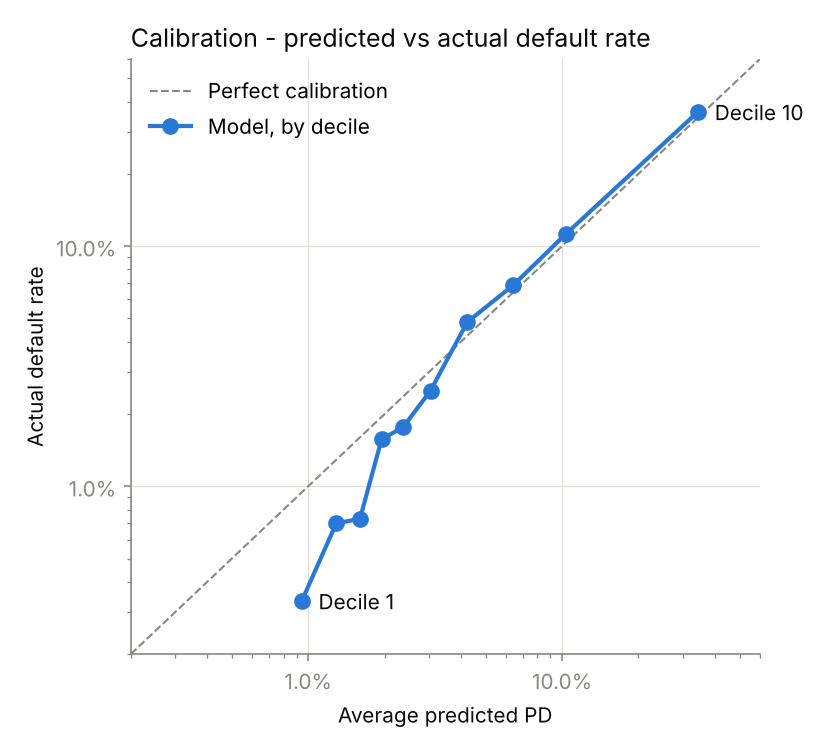
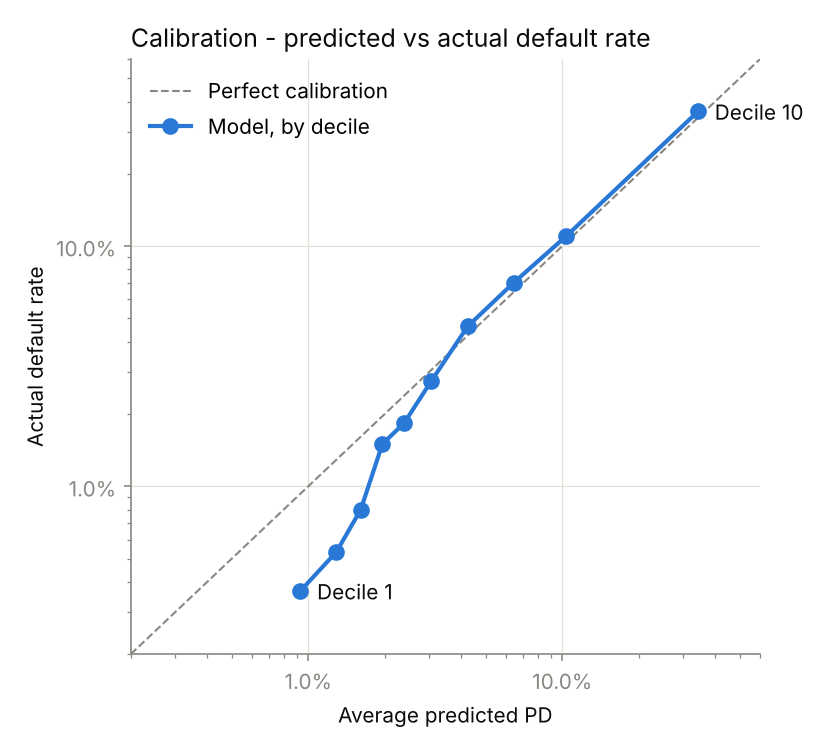
Remove debt ratio, add Reg B age note, fix risk factor wording and flag bug

diff --git a/scorecard.py b/scorecard.py
@@ -50,16 +50,16 @@ PAST_DUE_COLS = [
 FLAG_COLS = ["PastDueCodeFlag", "IncomeMissingFlag"]
 
 # Debt ratio raises risk on its own, but its weight turns slightly negative once the
-# other debt features are in the model. A reason like "debt ratio too low" can't be
-# given to a declined applicant, so it is never used as a reason code.
-NO_REASON_CODE = {"DebtRatio"}
+# other debt features are in the model, and it adds no accuracy (AUC 0.860 with it,
+# 0.861 without). Every feature in the model must be one we'd show an applicant as a
+# reason, so it is left out rather than kept and hidden.
+DROPPED = ["DebtRatio"]
 
 # Plain-English names, used in reason codes
 LABELS = {
     "RevolvingUtilizationOfUnsecuredLines": "Revolving credit utilization",
     "age": "Age",
     "NumberOfTime30-59DaysPastDueNotWorse": "Payments 30-59 days late",
-    "DebtRatio": "Debt ratio",
     "MonthlyIncome": "Monthly income",
     "NumberOfOpenCreditLinesAndLoans": "Open credit lines and loans",
     "NumberOfTimes90DaysLate": "Payments 90+ days late",
@@ -87,7 +87,7 @@ def clean(data):
     data["PastDueCodeFlag"] = (data[PAST_DUE_COLS] >= 96).any(axis=1).astype(int)
     for col in PAST_DUE_COLS:
         data.loc[data[col] >= 96, col] = np.nan
-    # Missing income is informative too, and it is what distorts DebtRatio
+    # Missing income is flagged so the model can tell it apart from a typical income
     data["IncomeMissingFlag"] = data["MonthlyIncome"].isna().astype(int)
     return data
 
@@ -114,18 +114,17 @@ def reason_codes(pipeline, X_row, n=3):
         if contrib[i] <= 0 or len(reasons) == n:
             break
         feat = X_row.columns[i]
-        if feat in NO_REASON_CODE:
-            continue
         if feat in FLAG_COLS:
-            reasons.append(LABELS[feat])
+            if X_row.iloc[0, i] == 1:            # a flag is only a factor when it is set
+                reasons.append(LABELS[feat])
         else:
             reasons.append(f"{LABELS[feat]}: {'higher' if z[i] > 0 else 'lower'} than average")
     return reasons
 
 
 def score_applicant(applicant, bundle=None):
-    """Score one applicant (a dict of the 10 raw dataset fields; leave unknowns as None).
-    Returns score, PD and up to three reason codes."""
+    """Score one applicant (a dict of the raw dataset fields; leave unknowns as None).
+    Returns score, PD and up to three risk factors - the reason codes if declined."""
     if bundle is None:
         with open(MODEL_FILE, "rb") as f:
             bundle = pickle.load(f)
@@ -133,7 +132,7 @@ def score_applicant(applicant, bundle=None):
     X_row = apply_caps(clean(raw), bundle["caps"])[bundle["features"]]
     p = float(bundle["pipeline"].predict_proba(X_row)[0, 1])
     return {"score": int(pd_to_score(p)), "pd": p,
-            "reasons": reason_codes(bundle["pipeline"], X_row)}
+            "factors": reason_codes(bundle["pipeline"], X_row)}
 
 
 # ---------------------------------------------------------------------------
@@ -154,7 +153,7 @@ def main():
 
     # Step 1 - Data ingestion and cleaning ----------------------------------
     df = clean(pd.read_csv(DATA_FILE))
-    X = df.drop(columns=[TARGET])
+    X = df.drop(columns=[TARGET] + DROPPED)
     y = df[TARGET]
 
     line()
@@ -325,26 +324,27 @@ def main():
     # Scoring new applicants with reason codes ------------------------------
     examples = {
         "Maria": {"RevolvingUtilizationOfUnsecuredLines": 0.95, "age": 28,
-                  "NumberOfTime30-59DaysPastDueNotWorse": 3, "DebtRatio": 0.40,
+                  "NumberOfTime30-59DaysPastDueNotWorse": 3,
                   "MonthlyIncome": 6000, "NumberOfOpenCreditLinesAndLoans": 8,
                   "NumberOfTimes90DaysLate": 0, "NumberRealEstateLoansOrLines": 0,
                   "NumberOfTime60-89DaysPastDueNotWorse": 0, "NumberOfDependents": 0},
         "James": {"RevolvingUtilizationOfUnsecuredLines": 0.10, "age": 52,
-                  "NumberOfTime30-59DaysPastDueNotWorse": 0, "DebtRatio": 0.30,
+                  "NumberOfTime30-59DaysPastDueNotWorse": 0,
                   "MonthlyIncome": 4500, "NumberOfOpenCreditLinesAndLoans": 6,
                   "NumberOfTimes90DaysLate": 0, "NumberRealEstateLoansOrLines": 1,
                   "NumberOfTime60-89DaysPastDueNotWorse": 0, "NumberOfDependents": 2},
     }
     print()
     line()
-    print("SCORING NEW APPLICANTS (score_applicant) - with adverse action reason codes")
+    print("SCORING NEW APPLICANTS (score_applicant)")
+    print("Risk factors = what pushes risk above average; if declined, these are the reason codes")
     line()
     for name, applicant in examples.items():
         result = score_applicant(applicant, bundle)
         print(f"{name}: score {result['score']} | PD {result['pd']:.1%}")
-        for k, reason in enumerate(result["reasons"], 1):
-            print(f"   Reason {k}: {reason}")
-        if not result["reasons"]:
+        for k, factor in enumerate(result["factors"], 1):
+            print(f"   Risk factor {k}: {factor}")
+        if not result["factors"]:
             print("   No factors raise risk above the average borrower")
 
     # Charts ----------------------------------------------------------------

diff --git a/README.md b/README.md
@@ -6,16 +6,18 @@ A traditional bank-style credit scorecard that predicts the probability of serio
 
 Banks must be able to explain their credit decisions — to model validators under model-risk guidance (such as the Fed's SR 11-7), and to customers through adverse action notices (ECOA / Regulation B). A logistic regression gives one clear, signed weight per feature, so you can say exactly what drives a borrower's risk up or down. That makes it the standard baseline for retail credit scoring.
 
+The design rule throughout: **every feature in the model must be one a lender would be willing to show an applicant as a reason.**
+
 ## Results (20% stratified hold-out, 30,000 borrowers)
 
 | Metric | Value | What it means |
 |---|---|---|
-| AUC | **0.860** | 86% chance a random defaulter is scored riskier than a random non-defaulter |
+| AUC | **0.861** | 86% chance a random defaulter is scored riskier than a random non-defaulter |
 | Gini | **0.721** | 2 × AUC − 1, the standard industry ranking measure |
-| KS | **0.560** | Maximum separation between good and bad borrowers |
+| KS | **0.557** | Maximum separation between good and bad borrowers |
 
 <p align="center">
-  <img src="outputs/roc_curve.png" width="48%" alt="ROC curve with AUC 0.860 and KS 0.560">
+  <img src="outputs/roc_curve.png" width="48%" alt="ROC curve with AUC 0.861 and KS 0.557">
   <img src="outputs/calibration.png" width="48%" alt="Predicted vs actual default rate by decile">
 </p>
 
@@ -25,18 +27,18 @@ Ranking borrowers well is not enough for loss estimates; the predicted probabili
 
 | Decile | Predicted PD | Actual default rate | Predicted ÷ actual |
 |---|---|---|---|
-| 1 (safest) | 0.94% | 0.33% | 2.83 |
-| 2 | 1.29% | 0.70% | 1.84 |
-| 3 | 1.60% | 0.73% | 2.18 |
-| 4 | 1.94% | 1.57% | 1.24 |
-| 5 | 2.37% | 1.77% | 1.34 |
-| 6 | 3.03% | 2.50% | 1.21 |
-| 7 | 4.24% | 4.83% | 0.88 |
-| 8 | 6.41% | 6.87% | 0.93 |
-| 9 | 10.38% | 11.27% | 0.92 |
-| 10 (riskiest) | 34.33% | 36.27% | 0.95 |
+| 1 (safest) | 0.93% | 0.37% | 2.54 |
+| 2 | 1.29% | 0.53% | 2.42 |
+| 3 | 1.61% | 0.80% | 2.01 |
+| 4 | 1.96% | 1.50% | 1.31 |
+| 5 | 2.38% | 1.83% | 1.30 |
+| 6 | 3.04% | 2.73% | 1.11 |
+| 7 | 4.24% | 4.63% | 0.92 |
+| 8 | 6.43% | 7.03% | 0.91 |
+| 9 | 10.36% | 11.00% | 0.94 |
+| 10 (riskiest) | 34.26% | 36.40% | 0.94 |
 
-**What this shows:** the model is well calibrated for the riskier half of the portfolio (within about 5–12%, slightly understating risk), but it **overstates risk for the safest borrowers by roughly two to three times**. A straight-line model cannot bend enough to capture how very-low-risk borrowers behave. This is conservative (it errs toward caution, not optimism), and it matters little in dollar terms because the safest deciles carry little expected loss. The fixes are WoE binning or a recalibration step (see *Limitations*).
+**What this shows:** across the riskiest four deciles, predictions are within 6–9% of actual default rates (slightly understating risk). Deciles 4–6 overstate risk by 1.1–1.3×, and the **safest three deciles overstate it by 2–2.5×**. A straight-line model cannot bend enough to capture how very-low-risk borrowers behave. The error is conservative (it errs toward caution, not optimism), and it matters little in dollar terms because the safest deciles carry little expected loss. The fixes are WoE binning or a recalibration step (see *Limitations*).
 
 ### Risk Weight Matrix
 
@@ -44,22 +46,19 @@ Standardized coefficients, so features are directly comparable. *Odds ×* is how
 
 | Rank | Feature | Coef | Odds × | Effect |
 |---|---|---|---|---|
-| 1 | Revolving utilization of unsecured lines | +0.689 | 1.99 | Raises risk |
-| 2 | Times 90+ days late | +0.333 | 1.39 | Raises risk |
-| 3 | Times 30–59 days past due | +0.308 | 1.36 | Raises risk |
-| 4 | Age | −0.248 | 0.78 | Lowers risk |
-| 5 | Times 60–89 days past due | +0.202 | 1.22 | Raises risk |
-| 6 | Open credit lines and loans | +0.186 | 1.20 | Raises risk |
-| 7 | Monthly income | −0.154 | 0.86 | Lowers risk |
-| 8 | Debt ratio | −0.135 | 0.87 | Lowers risk* |
-| 9 | Real estate loans or lines | +0.129 | 1.14 | Raises risk |
-| 10 | Past-due history recorded as special code (flag) | +0.100 | 1.10 | Raises risk |
-| 11 | Income not reported (flag) | +0.087 | 1.09 | Raises risk |
-| 12 | Number of dependents | +0.047 | 1.05 | Raises risk |
+| 1 | Revolving utilization of unsecured lines | +0.686 | 1.99 | Raises risk |
+| 2 | Times 90+ days late | +0.333 | 1.40 | Raises risk |
+| 3 | Times 30–59 days past due | +0.307 | 1.36 | Raises risk |
+| 4 | Age | −0.247 | 0.78 | Lowers risk |
+| 5 | Times 60–89 days past due | +0.203 | 1.22 | Raises risk |
+| 6 | Open credit lines and loans | +0.170 | 1.19 | Raises risk |
+| 7 | Monthly income | −0.132 | 0.88 | Lowers risk |
+| 8 | Real estate loans or lines | +0.104 | 1.11 | Raises risk |
+| 9 | Past-due history recorded as special code (flag) | +0.103 | 1.11 | Raises risk |
+| 10 | Number of dependents | +0.042 | 1.04 | Raises risk |
+| 11 | Income not reported (flag) | −0.012 | 0.99 | Negligible |
 
-**Key takeaway:** credit card utilization and past delinquency history dominate default risk. Utilization alone roughly doubles the odds of default per standard deviation, while monthly income has a much smaller effect.
-
-\*See *Limitations* for why debt ratio shows a counter-intuitive sign.
+**Key takeaway:** credit card utilization and past delinquency history dominate default risk. Utilization alone roughly doubles the odds of default per standard deviation, while monthly income has a much smaller effect. Every weight points in the direction a credit analyst would expect. The income-not-reported flag is close to zero, which fits its 5.6% default rate being near the 6.7% average.
 
 ### Credit score bands
 
@@ -67,11 +66,11 @@ Scores use the industry "points to double the odds" method: 650 points = 20:1 go
 
 | Score band | Borrowers | Share | Predicted PD | Actual default rate |
 |---|---|---|---|---|
-| Poor (300–579) | 3,721 | 12.4% | 30.11% | 32.20% |
-| Fair (580–669) | 7,876 | 26.3% | 6.68% | 7.19% |
-| Good (670–739) | 12,532 | 41.8% | 2.27% | 1.70% |
-| Very Good (740–799) | 5,805 | 19.4% | 1.12% | 0.48% |
-| Exceptional (800–850) | 66 | 0.2% | 0.55% | 0.00% |
+| Poor (300–579) | 3,679 | 12.3% | 30.25% | 32.16% |
+| Fair (580–669) | 7,936 | 26.5% | 6.71% | 7.32% |
+| Good (670–739) | 12,575 | 41.9% | 2.28% | 1.71% |
+| Very Good (740–799) | 5,767 | 19.2% | 1.10% | 0.45% |
+| Exceptional (800–850) | 43 | 0.1% | 0.56% | 0.00% |
 
 Default rates fall steadily as scores rise, from about 32% in the lowest band to under 1% in the top bands. The gap between predicted and actual in the top bands is the same overstatement seen in the calibration table.
 
@@ -85,51 +84,52 @@ Banks measure credit losses with **Expected Loss = PD × LGD × EAD**: the proba
 
 | Score band | Exposure ($) | Expected loss ($) | Avg EL per borrower ($) | Loss rate |
 |---|---|---|---|---|
-| Poor (300–579) | 34,506,295 | 8,420,199 | 2,263 | 24.40% |
-| Fair (580–669) | 62,455,649 | 3,457,903 | 439 | 5.54% |
-| Good (670–739) | 70,918,757 | 1,309,279 | 104 | 1.85% |
-| Very Good (740–799) | 30,085,875 | 268,964 | 46 | 0.89% |
-| Exceptional (800–850) | 338,596 | 1,482 | 22 | 0.44% |
-| **Portfolio** | **198,305,174** | **13,457,827** | **449** | **6.79%** |
+| Poor (300–579) | 34,113,709 | 8,363,879 | 2,273 | 24.52% |
+| Fair (580–669) | 63,098,569 | 3,508,309 | 442 | 5.56% |
+| Good (670–739) | 71,016,906 | 1,315,415 | 105 | 1.85% |
+| Very Good (740–799) | 29,856,977 | 264,247 | 46 | 0.89% |
+| Exceptional (800–850) | 219,013 | 988 | 23 | 0.45% |
+| **Portfolio** | **198,305,174** | **13,452,838** | **448** | **6.78%** |
 
-**Key takeaway:** the Poor band holds 12% of borrowers but 63% of expected loss. That is the kind of concentration a bank acts on through approval cut-offs, credit limits and pricing.
+**Key takeaway:** the Poor band holds 12% of borrowers but 62% of expected loss. That is the kind of concentration a bank acts on through approval cut-offs, credit limits and pricing.
 
 The loss figures cover the same two-year horizon as the default target. They show how a PD model plugs into loss estimation; the dollar amounts depend on the assumptions above.
 
-### Scoring a new applicant, with reason codes
+### Scoring a new applicant
 
-`score_applicant()` takes an applicant's raw details and returns their score, PD and the top three factors pushing their risk above the average borrower. These are the reasons a lender would list on an adverse action notice if the applicant were declined. For a logistic model, each feature's contribution is simply its weight × the applicant's standardized value.
+`score_applicant()` takes an applicant's raw details and returns their score, PD and the top three **risk factors**: the features pushing their risk above the average borrower. If the applicant is declined, these are the reasons a lender would list on an adverse action notice. For a logistic model, each feature's contribution is simply its weight × the applicant's standardized value.
 
 ```python
 from scorecard import score_applicant
 
 score_applicant({
     "RevolvingUtilizationOfUnsecuredLines": 0.95, "age": 28,
-    "NumberOfTime30-59DaysPastDueNotWorse": 3, "DebtRatio": 0.40,
-    "MonthlyIncome": 6000, "NumberOfOpenCreditLinesAndLoans": 8,
-    "NumberOfTimes90DaysLate": 0, "NumberRealEstateLoansOrLines": 0,
-    "NumberOfTime60-89DaysPastDueNotWorse": 0, "NumberOfDependents": 0,
+    "NumberOfTime30-59DaysPastDueNotWorse": 3, "MonthlyIncome": 6000,
+    "NumberOfOpenCreditLinesAndLoans": 8, "NumberOfTimes90DaysLate": 0,
+    "NumberRealEstateLoansOrLines": 0, "NumberOfTime60-89DaysPastDueNotWorse": 0,
+    "NumberOfDependents": 0,
 })
 ```
 
-| Applicant | Profile | Score | PD | Top reasons |
+| Applicant | Profile | Score | PD | Top risk factors |
 |---|---|---|---|---|
-| Maria | 28, uses 95% of her credit, 3 payments 30–59 days late, earns $6,000/month | **472** (Poor) | 37.3% | Payments 30–59 days late · High revolving utilization · Younger age |
-| James | 52, uses 10% of his credit, never late, earns $4,500/month | **717** (Good) | 1.9% | — approved |
+| Maria | 28, uses 95% of her credit, 3 payments 30–59 days late, earns $6,000/month | **470** (Poor) | 37.8% | Payments 30–59 days late · High revolving utilization · Younger age |
+| James | 52, uses 10% of his credit, never late, earns $4,500/month | **717** (Good) | 1.9% | Low risk; minor factors only |
 
-Maria earns more than James, but her utilization and late payments make her about 20 times riskier.
+Maria earns more than James, but her utilization and late payments make her about 20 times riskier. The model sets no approval cut-off; choosing one is a business decision about how much risk a lender will accept.
 
 ## Method
 
 1. **Clean** — the 96/98 values in the past-due counts are data-entry codes, not real counts. Those borrowers default at 54.6% (about 8× average), so a flag keeps that signal before the codes are set to missing. A second flag marks the 19.8% of borrowers with no reported income.
-2. **Split first** — stratified 80/20 train/test split *before* any fitting, so nothing from the test set leaks into training.
-3. **Cap outliers** — clip each feature at the training set's 1st and 99th percentiles.
-4. **Impute + scale + model** — median imputation, standardization and logistic regression, all in one scikit-learn `Pipeline` fitted on training data only.
-5. **Validate** — AUC, Gini and KS on the hold-out set (accuracy is misleading when only ~7% of borrowers default), plus a 10-decile calibration check.
-6. **Explain** — rank standardized coefficients into the Risk Weight Matrix.
-7. **Score** — convert probability of default to a 300–850 score and check default rates by band.
-8. **Estimate losses** — combine PD with assumed LGD and EAD to calculate expected loss by score band and for the whole portfolio.
-9. **Reason codes** — score individual applicants and list the factors driving their risk.
+2. **Select features** — debt ratio is left out (see *Limitations*), leaving nine original features plus the two flags.
+3. **Split first** — stratified 80/20 train/test split *before* any fitting, so nothing from the test set leaks into training.
+4. **Cap outliers** — clip each feature at the training set's 1st and 99th percentiles.
+5. **Impute + scale + model** — median imputation, standardization and logistic regression, all in one scikit-learn `Pipeline` fitted on training data only.
+6. **Validate** — AUC, Gini and KS on the hold-out set (accuracy is misleading when only ~7% of borrowers default), plus a 10-decile calibration check.
+7. **Explain** — rank standardized coefficients into the Risk Weight Matrix.
+8. **Score** — convert probability of default to a 300–850 score and check default rates by band.
+9. **Estimate losses** — combine PD with assumed LGD and EAD to calculate expected loss by score band and for the whole portfolio.
+10. **Risk factors** — score individual applicants and list the factors driving their risk.
 
 ## Project structure
 
@@ -162,8 +162,9 @@ The dataset is not included in this repository, in line with Kaggle's competitio
 
 ## Limitations and next steps
 
-- **Calibration for the safest borrowers.** The model overstates PD by about 2–3× in the safest three deciles. WoE binning (below) or an isotonic / Platt recalibration step on held-out data would correct it.
-- **Debt ratio sign.** On its own, a higher debt ratio does go with more defaults (about 5% in the lowest decile vs 11% in the highest). Once utilization, open credit lines and real-estate loans are in the model, debt ratio adds little, and its remaining weight is slightly negative. Blanking it when income is missing and log-transforming it were both tested: neither changed the sign or the AUC. It is excluded from reason codes, because "debt ratio too low" is not a valid reason to decline someone.
+- **Calibration for the safest borrowers.** The model overstates PD by about 2–2.5× in the safest three deciles. WoE binning (below) or an isotonic / Platt recalibration step on held-out data would correct it.
+- **Debt ratio removed.** On its own, a higher debt ratio does go with more defaults (about 5% in the lowest decile vs 11% in the highest). But once utilization, open credit lines and real-estate loans are in the model, its weight turns slightly negative. Blanking it when income is missing and log-transforming it did not change that. Removing it costs no accuracy (AUC 0.860 with it, 0.861 without), so it is left out rather than kept and hidden from reason codes: "debt ratio too low" is not a reason anyone could be declined for.
+- **Age and dependents.** Under ECOA / Regulation B, a statistically sound scoring system may use age, provided applicants aged 62 or older are not penalized for it. In this model, age has one negative weight, so being older only ever lowers risk; the 28% of borrowers aged 62+ are never scored down for age. Age and number of dependents are still sensitive, and a lender's fair-lending review would check both before use.
 - **Linear effects only.** Features enter the model as straight lines. A production scorecard would use Weight of Evidence (WoE) binning with monotonic constraints and a points-per-attribute table, which captures non-linear patterns while staying interpretable.
 - **Real LGD and EAD models.** With account-level balance, limit and recovery data, LGD and EAD would be modelled per borrower instead of assumed.
 - **Monitoring.** Population Stability Index (PSI) tracking would detect when incoming applicants drift from the training population.
